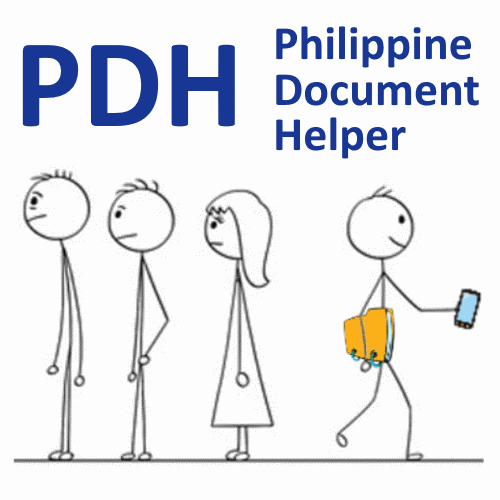
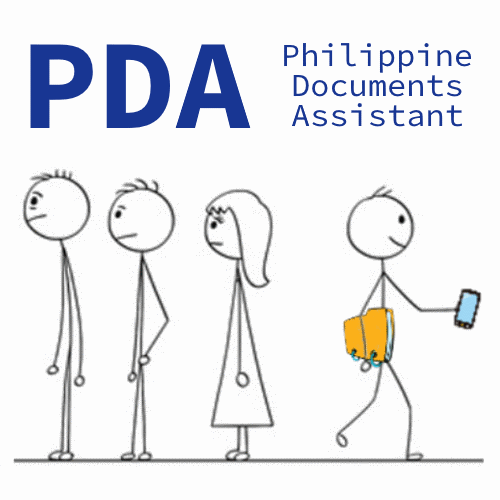
Updated app name and images and customized SettingsScreen with custom ConfigView.

Changed region(s): [[0.54, 0.03, 0.96, 0.33], [0.03, 0.09, 0.51, 0.27]]

diff --git a/src/components/ConfigView.js b/src/components/ConfigView.js
@@ -1,0 +1,165 @@
+import Constants from 'expo-constants';
+import React from 'react';
+import { SectionList, Image, StyleSheet, Text, View } from 'react-native';
+
+export default class ConfigView extends React.Component {
+  render() {
+    const { manifest = {} } = Constants;
+    const sections = [
+      { data: [{ value: manifest.version }], title: 'Version' },
+      { data: [{ value: '' }], title: 'Legal' },
+    ];
+
+    return (
+      <SectionList
+        style={styles.container}
+        renderItem={this._renderItem}
+        renderSectionHeader={this._renderSectionHeader}
+        stickySectionHeadersEnabled={true}
+        keyExtractor={(item, index) => index}
+        ListHeaderComponent={ListHeader}
+        sections={sections}
+      />
+    );
+  }
+
+  _renderSectionHeader = ({ section }) => {
+    return <SectionHeader title={section.title} />;
+  };
+
+  _renderItem = ({ item }) => {
+    if (item.type === 'color') {
+      return <SectionContent>{item.value && <Color value={item.value} />}</SectionContent>;
+    } else {
+      return (
+        <SectionContent>
+          <Text style={styles.sectionContentText}>{item.value}</Text>
+        </SectionContent>
+      );
+    }
+  };
+}
+
+const ListHeader = () => {
+  const { manifest } = Constants;
+
+  return (
+    <View style={styles.titleContainer}>
+      <View style={styles.titleIconContainer}>
+        <AppIconPreview iconUrl={manifest.iconUrl} />
+      </View>
+
+      <View style={styles.titleTextContainer}>
+        <Text style={styles.nameText} numberOfLines={1}>
+          {manifest.name}
+        </Text>
+
+        <Text style={styles.slugText} numberOfLines={1}>
+          {manifest.slug}
+        </Text>
+
+        <Text style={styles.descriptionText}>{manifest.description}</Text>
+      </View>
+    </View>
+  );
+};
+
+const SectionHeader = ({ title }) => {
+  return (
+    <View style={styles.sectionHeaderContainer}>
+      <Text style={styles.sectionHeaderText}>{title}</Text>
+    </View>
+  );
+};
+
+const SectionContent = props => {
+  return <View style={styles.sectionContentContainer}>{props.children}</View>;
+};
+
+const AppIconPreview = ({ iconUrl }) => {
+  if (!iconUrl) {
+    iconUrl = 'https://s3.amazonaws.com/exp-brand-assets/ExponentEmptyManifest_192.png';
+  }
+
+  return <Image source={{ uri: iconUrl }} style={{ width: 64, height: 64 }} resizeMode="cover" />;
+};
+
+const Color = ({ value }) => {
+  if (!value) {
+    return <View />;
+  } else {
+    return (
+      <View style={styles.colorContainer}>
+        <View style={[styles.colorPreview, { backgroundColor: value }]} />
+        <View style={styles.colorTextContainer}>
+          <Text style={styles.sectionContentText}>{value}</Text>
+        </View>
+      </View>
+    );
+  }
+};
+
+const styles = StyleSheet.create({
+  container: {
+    flex: 1,
+    backgroundColor: '#fff',
+  },
+  titleContainer: {
+    paddingHorizontal: 15,
+    paddingTop: 15,
+    paddingBottom: 15,
+    flexDirection: 'row',
+  },
+  titleIconContainer: {
+    marginRight: 15,
+    paddingTop: 2,
+  },
+  sectionHeaderContainer: {
+    backgroundColor: '#fbfbfb',
+    paddingVertical: 8,
+    paddingHorizontal: 15,
+    borderWidth: StyleSheet.hairlineWidth,
+    borderColor: '#ededed',
+  },
+  sectionHeaderText: {
+    fontSize: 14,
+  },
+  sectionContentContainer: {
+    paddingTop: 8,
+    paddingBottom: 12,
+    paddingHorizontal: 15,
+  },
+  sectionContentText: {
+    color: '#808080',
+    fontSize: 14,
+  },
+  nameText: {
+    fontWeight: '600',
+    fontSize: 18,
+  },
+  slugText: {
+    color: '#a39f9f',
+    fontSize: 14,
+    backgroundColor: 'transparent',
+  },
+  descriptionText: {
+    fontSize: 14,
+    marginTop: 6,
+    color: '#4d4d4d',
+  },
+  colorContainer: {
+    flexDirection: 'row',
+    alignItems: 'center',
+  },
+  colorPreview: {
+    width: 17,
+    height: 17,
+    borderRadius: 2,
+    marginRight: 6,
+    borderWidth: StyleSheet.hairlineWidth,
+    borderColor: '#ccc',
+  },
+  colorTextContainer: {
+    flex: 1,
+  },
+});

diff --git a/src/screens/SettingsScreen.js b/src/screens/SettingsScreen.js
@@ -1,14 +1,14 @@
 import React from 'react';
-import { ExpoConfigView } from '@expo/samples';
+import ConfigView from '../components/ConfigView';
 
 export default function SettingsScreen() {
   /**
    * Go ahead and delete ExpoConfigView and replace it with your content;
    * we just wanted to give you a quick view of your config.
    */
-  return <ExpoConfigView />;
+  return <ConfigView />;
 }
 
 SettingsScreen.navigationOptions = {
-  title: 'PDH: Philippine Document Helper',
+  title: 'PDA: Philippine Documents Assistant',
 };

diff --git a/src/screens/HomeScreen.js b/src/screens/HomeScreen.js
@@ -130,11 +130,11 @@ const styles = StyleSheet.create({
     marginBottom: 20,
   },
   welcomeImage: {
-    width: 250,
-    height: 250,
+    width: 325,
+    height: 325,
     resizeMode: 'contain',
-    marginTop: 3,
-    marginLeft: -10,
+    marginTop: 5,
+    marginLeft: 0,
   },
   getStartedContainer: {
     alignItems: 'center',

diff --git a/README.md b/README.md
@@ -1,4 +1,4 @@
-# PDH: Philippine Document Helper
+# PDA: Philippine Documents Assistant
 
 ## Requirements
 1. Install [Android Studio version 3.0+](https://developer.android.com/studio/)
